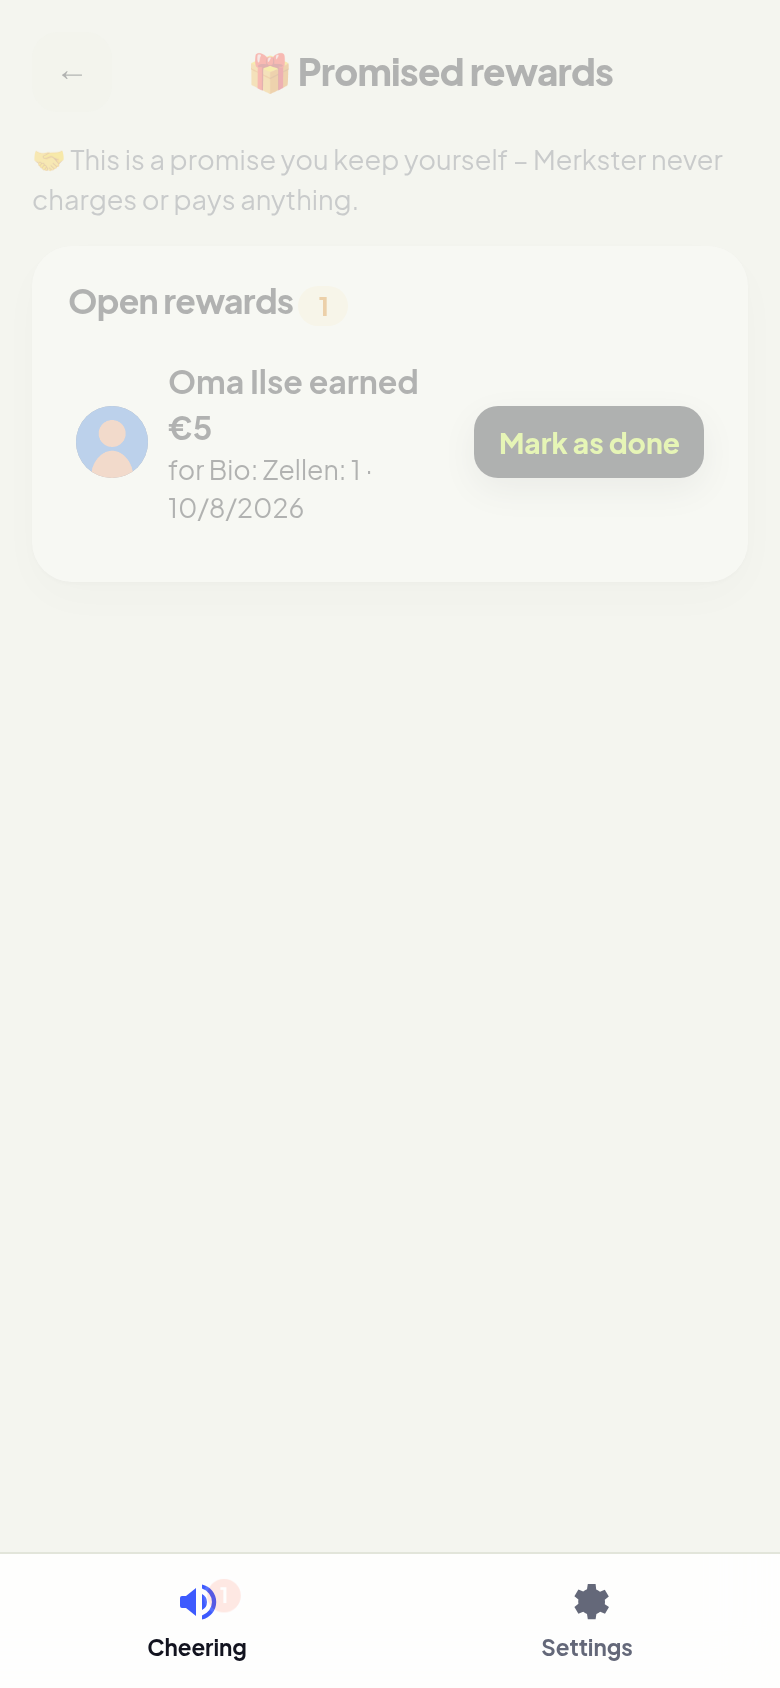
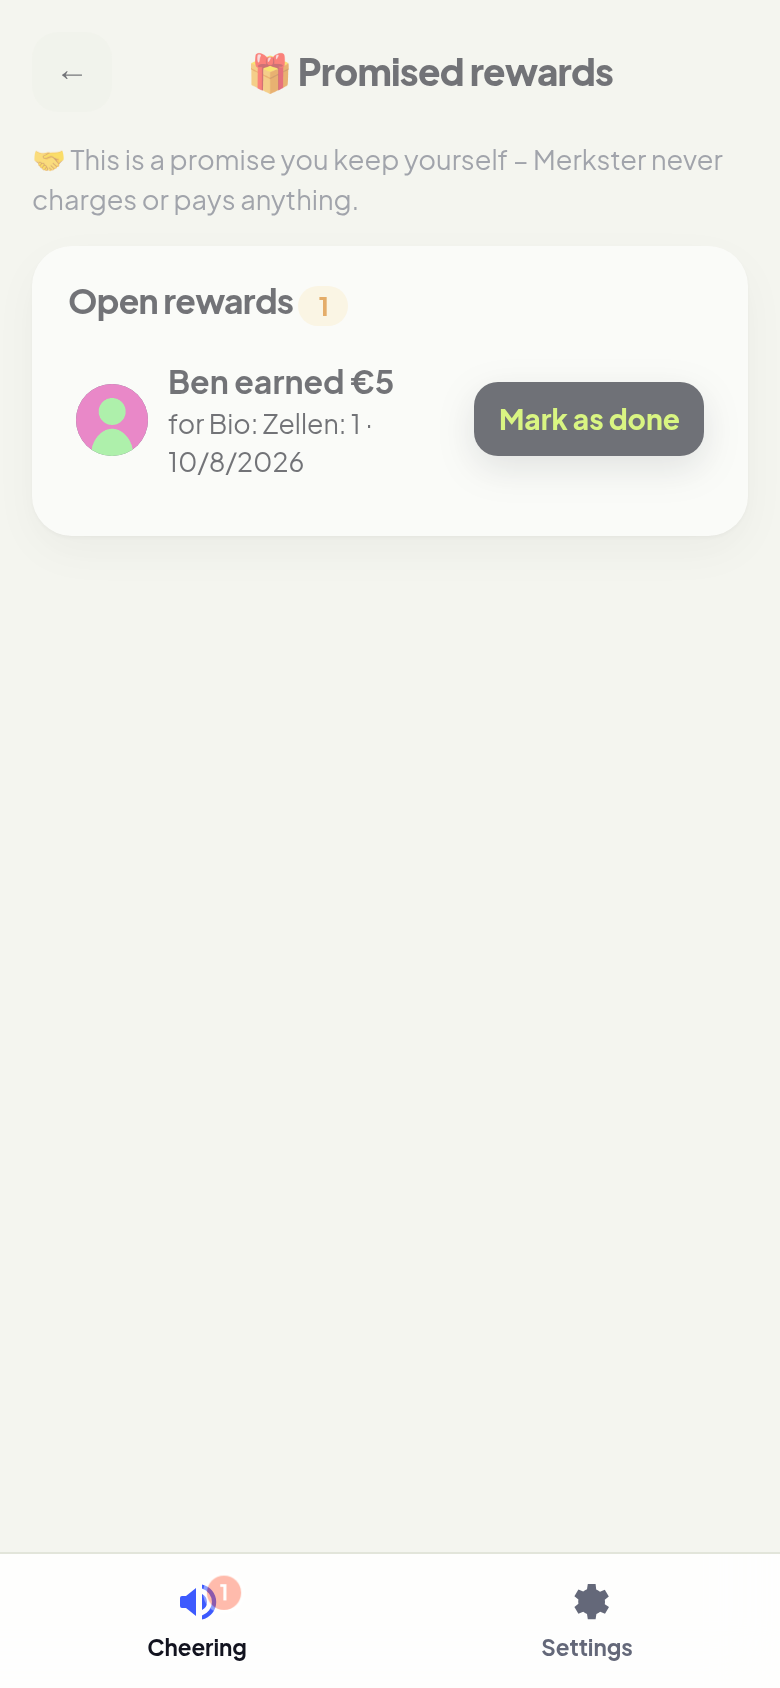
Fix supporter reward lines naming the supporter instead of the kid
On the supporter overview (/cheer reward notice) and the promised-rewards
list (/cheer/rewards), lines read "Mama hat 5 € verdient" instead of
"Lena hat 5 € verdient": both used whoName(kid), which prefers the
supporter-link label/relation ("Mama"), and /api/rewards/given put the
link's label/relation onto the kid object.

- server: /api/rewards/given returns the kid's own name only (no link
  label/relation on `kid`)
- web: new kidName() helper; Cheer.tsx and GivenRewards.tsx use it for
  the line text and data-kid (DE + EN strings both take {name})
- tests: unit test for kidName vs whoName; rewards e2e asserts the kid's
  name in the reward notice, given-line and API, and that the supporter
  label does not appear
- refresh mobile-29-given-rewards screenshot

diff --git a/web/src/pages/Cheer.tsx b/web/src/pages/Cheer.tsx
@@ -4,10 +4,9 @@ import { RANKS } from '../../../shared/gamification';
 import { fmtResult } from '../../../shared/grades';
 import type { KidSummary, KidUpcoming } from '../../../shared/supporters';
 import type { User } from '../../../shared/types';
-import { useKids, milestoneIcon, milestoneName, relName } from '../lib/supporters';
+import { kidName, useKids, milestoneIcon, milestoneName, relName } from '../lib/supporters';
 import { fmtDay } from '../lib/util';
 import { earnedWhat, rewardText, useGivenRewards } from '../lib/rewards';
-import { whoName } from '../lib/supporters';
 import { MiniAvatar } from '../components/Cheers';
 import { Avatar, RankBadge } from '../components/ui';
 import { subjectIcon, t, uiLang } from '../i18n';
@@ -54,7 +53,7 @@ export function CheerHome() {
       <header className="home-top"><div><p className="muted small">{t('cheer_kicker')}</p><h1 className="page-title">📣 {t('cheer_title')}</h1></div></header>
       {kids.isLoading && <div className="spinner" />}
       {fresh.slice(0, 3).map(r => <Link key={r.id} to="/cheer/rewards" className="card reward-notice pop-in" data-testid="reward-notice">
-        <MiniAvatar src={r.kid.avatar} name={r.kid.name} size={40} /><span className="grow"><b>🎉 {t('given_earned', { name: whoName(r.kid), reward: rewardText(r.reward) })}</b><small>{t('given_for', { what: earnedWhat(r) })}</small></span><span>→</span></Link>)}
+        <MiniAvatar src={r.kid.avatar} name={r.kid.name} size={40} /><span className="grow"><b>🎉 {t('given_earned', { name: kidName(r.kid), reward: rewardText(r.reward) })}</b><small>{t('given_for', { what: earnedWhat(r) })}</small></span><span>→</span></Link>)}
       {(openN > 0 || (given.data?.rewards.length || 0) > 0) && <Link to="/cheer/rewards" className="card open-rewards-link" data-testid="open-rewards-link">🎁 <b>{t('open_rewards')}</b> <span className="chip warm" data-testid="open-rewards-count">{t('open_rewards_n', { n: openN })}</span><span className="grow" />→</Link>}
       {kids.data && !kids.data.length && <div className="empty-hero" data-testid="cheer-empty"><div className="empty-emoji">📣</div><p>{t('cheer_empty')}</p></div>}
       <div className="kid-grid" data-testid="kid-grid">{kids.data?.map(k => <KidCard key={k.id} k={k} />)}</div>

diff --git a/tests/e2e/rewards.spec.ts b/tests/e2e/rewards.spec.ts
@@ -68,10 +68,21 @@ test('rewards: "5 € per 1" – rule → earned on both sides → mark paid →
   await expect(ben.page.getByTestId('rw-item').first()).toHaveAttribute('data-status', 'open');
   await expect(grand(ben.page, 'rw-grand', 'EUR')).toHaveAttribute('data-amount', '5');
 
+  // Oma's overview: the fresh-reward notice names the KID ("Ben hat 5 € verdient"), never her own label ("Oma Ilse")
+  await oma.page.goto('/cheer');
+  await expect(oma.page.getByTestId('reward-notice')).toHaveCount(1);
+  await expect(oma.page.getByTestId('reward-notice').first()).toContainText('Ben');
+  await expect(oma.page.getByTestId('reward-notice').first()).not.toContainText('Oma Ilse');
+  const given = (await apiCall(oma.page, 'GET', '/api/rewards/given')).body.rewards as { kid: { name: string; label: string; relation: string } }[];
+  expect(given.map(g => [g.kid.name, g.kid.label, g.kid.relation])).toEqual([['Ben', '', '']]);
+
   // Oma: open list → mark paid
   await oma.page.goto('/cheer/rewards');
   await expect(oma.page.getByTestId('given-item')).toHaveCount(1);
+  await expect(oma.page.getByTestId('given-item').first()).toHaveAttribute('data-kid', 'Ben');
   await expect(oma.page.getByTestId('given-line').first()).toContainText('5');
+  await expect(oma.page.getByTestId('given-line').first()).toContainText('Ben');
+  await expect(oma.page.getByTestId('given-line').first()).not.toContainText('Oma');
   await shot(oma.page, 'mobile-29-given-rewards.png');
   await oma.page.getByTestId('mark-paid').click();
   await expect(oma.page.getByTestId('given-paid')).toBeVisible();

diff --git a/web/src/pages/GivenRewards.tsx b/web/src/pages/GivenRewards.tsx
@@ -5,7 +5,7 @@ import { Link } from 'react-router-dom';
 import { useQueryClient } from '@tanstack/react-query';
 import { api, ApiError } from '../lib/api';
 import { earnedWhat, rewardText, useGivenRewards } from '../lib/rewards';
-import { whoName } from '../lib/supporters';
+import { kidName } from '../lib/supporters';
 import { confetti, toast } from '../lib/util';
 import { MiniAvatar } from '../components/Cheers';
 import { TopBar } from '../components/ui';
@@ -33,9 +33,9 @@ export default function GivenRewards() {
     finally { setBusy(''); }
   };
   const Row = ({ e }: { e: (typeof list)[0] }) => (
-    <div className={'rw-item given ' + e.status} data-testid="given-item" data-status={e.status} data-kid={whoName(e.kid)}>
+    <div className={'rw-item given ' + e.status} data-testid="given-item" data-status={e.status} data-kid={kidName(e.kid)}>
       <MiniAvatar src={e.kid.avatar} name={e.kid.name} size={36} />
-      <span className="grow"><b data-testid="given-line">{t('given_earned', { name: whoName(e.kid), reward: rewardText(e.reward) })}</b>
+      <span className="grow"><b data-testid="given-line">{t('given_earned', { name: kidName(e.kid), reward: rewardText(e.reward) })}</b>
         <small>{t('given_for', { what: earnedWhat(e) })} · {new Date(e.earnedAt).toLocaleDateString(L)}</small></span>
       {e.status === 'open'
         ? <button className="btn primary sm" data-testid="mark-paid" disabled={!!busy} onClick={() => setStatus(e.id, 'paid')}>{t('mark_paid')}</button>

diff --git a/server/src/rewards.ts b/server/src/rewards.ts
@@ -271,7 +271,7 @@ export async function rewardsPlugin(app: FastifyInstance, { pool }: { pool: pg.P
   /* ================= supporter: everything I promised (across kids) ================= */
   app.get('/api/rewards/given', auth, async req => {
     const r = await pool.query(`${EARNED_SQL('supporter')} WHERE e.supporter_id = $1 ORDER BY (e.status = 'open') DESC, e.earned_at DESC LIMIT 300`, [uidOf(req)]);
-    const rewards = r.rows.map(x => ({ ...earnedView(x, x.show_results, 'seen_supporter_at'), kid: person(x.student_id, x.p_name, x.p_etag, x.relation, x.label) }));
+    const rewards = r.rows.map(x => ({ ...earnedView(x, x.show_results, 'seen_supporter_at'), kid: person(x.student_id, x.p_name, x.p_etag) }));   // the KID's own name – l.relation/l.label describe the supporter ("Mama"), never the kid
     return { rewards, unseen: rewards.filter(x => !x.seen).length, open: rewards.filter(x => x.status === 'open').length };
   });
   app.post('/api/rewards/given/seen', auth, async req => {

diff --git a/web/src/lib/__tests__/supporters.test.ts b/web/src/lib/__tests__/supporters.test.ts
@@ -1,0 +1,16 @@
+import { describe, expect, it } from 'vitest';
+import { kidName, whoName } from '../supporters';
+
+/* Regression: the supporter overview said "Mama hat 5 € verdient" – the link's label/relation ("Mama") describes the
+   SUPPORTER, so a kid must always be named by their own name. */
+describe('kidName (supporter-facing views)', () => {
+  const kidWithLinkLabel = { name: 'Lena', label: 'Mama', relation: 'mom' };
+  it("uses the kid's own first name, never the supporter label/relation", () => {
+    expect(kidName(kidWithLinkLabel)).toBe('Lena');
+    expect(kidName({ name: '  Lena Marie Kraus ' })).toBe('Lena');
+    expect(kidName({ name: '' })).toBe('?');
+  });
+  it('whoName (for supporters) still prefers the label – which is why it must not be used for kids', () => {
+    expect(whoName(kidWithLinkLabel)).toBe('Mama');
+  });
+});

diff --git a/web/src/lib/supporters.ts b/web/src/lib/supporters.ts
@@ -25,6 +25,9 @@ export const useKid = (id: string) => useQuery({ queryKey: ['kid', id], queryFn:
 
 export const relName = (r: string) => t(('rel_' + r) as Key);
 export const whoName = (s: { label?: string; name: string; relation?: string }) => (s.label || '').trim() || (s.relation && s.relation !== 'other' ? relName(s.relation) : '') || supporterName(s);
+/** a linked kid as seen by a supporter: always the kid's own first name. (Never whoName() – the link's label/relation
+ *  is how the KID calls the supporter, e.g. "Mama".) */
+export const kidName = (k: { name: string }) => k.name.trim().split(/\s+/)[0] || '?';
 /** emoji, or the preset message text */
 export const reactionText = (r: string) => (r.startsWith('msg:') ? t(('msg_' + r.slice(4)) as Key) : r);
 export const isMessage = (r: string) => r.startsWith('msg:');
